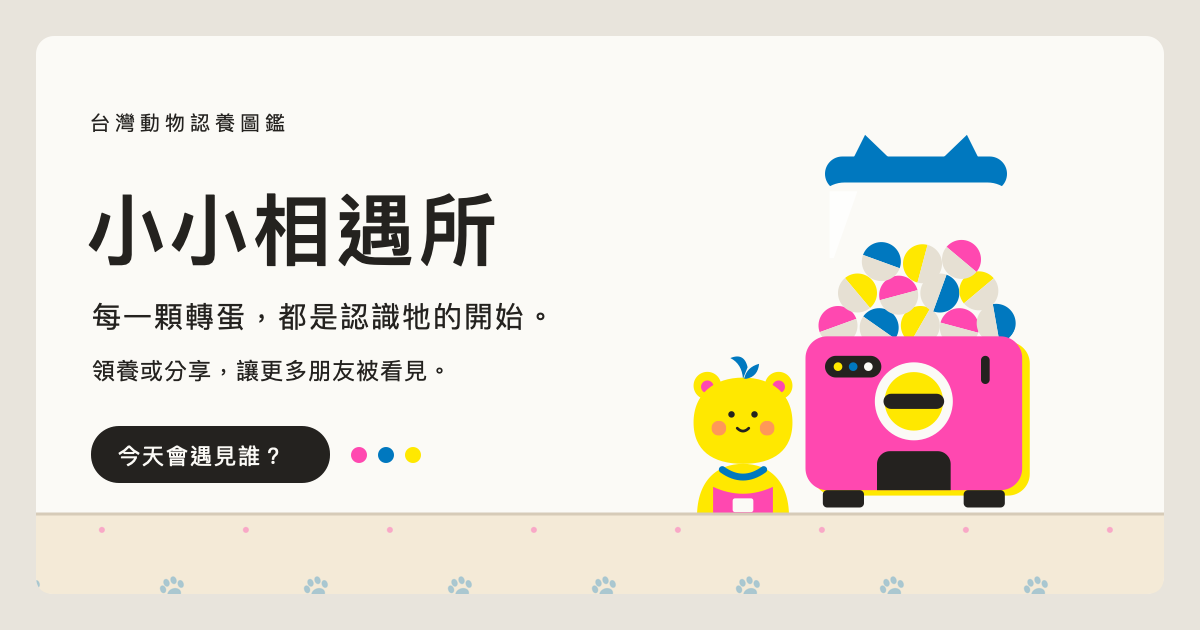
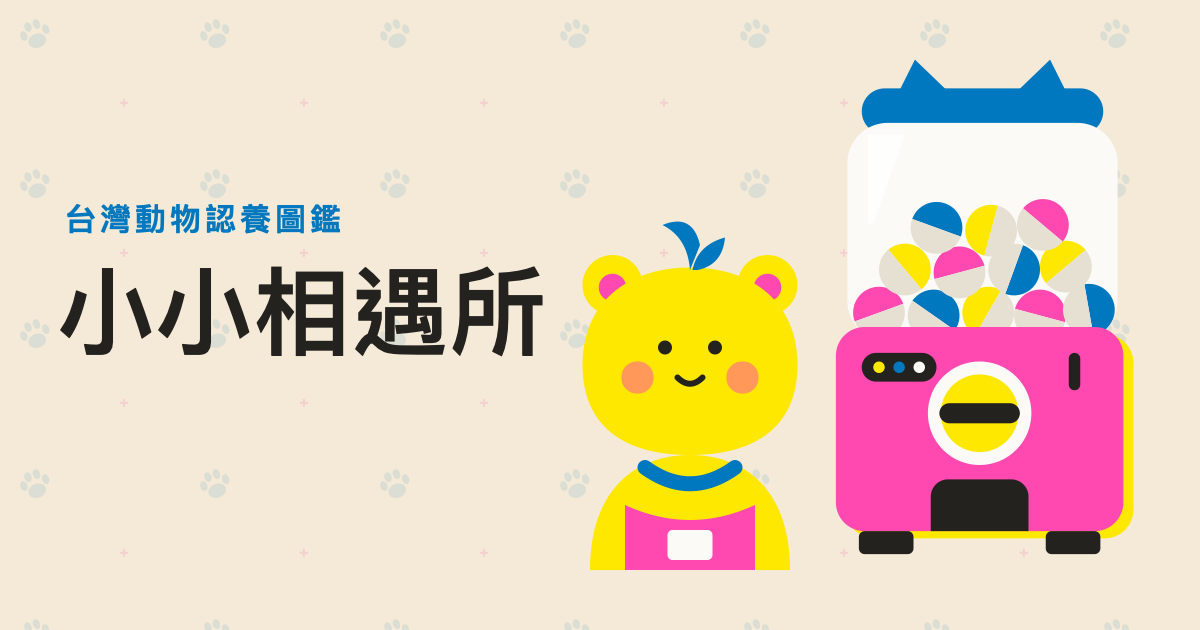
design(adopt-strays): simplify social preview and enlarge illustrations

diff --git a/adopt-strays/index.html b/adopt-strays/index.html
@@ -12,15 +12,15 @@
 <link rel="canonical" href="https://yuuyuutube.github.io/tools/adopt-strays/">
 <meta property="og:url" content="https://yuuyuutube.github.io/tools/adopt-strays/">
 <meta property="og:site_name" content="小小相遇所">
-<meta property="og:image" content="https://yuuyuutube.github.io/tools/adopt-strays/og.png?v=3">
+<meta property="og:image" content="https://yuuyuutube.github.io/tools/adopt-strays/og.png?v=9">
 <meta property="og:image:width" content="1200">
 <meta property="og:image:height" content="630">
 <meta property="og:image:type" content="image/png">
-<meta property="og:image:alt" content="小小相遇所：店員阿糰與三色轉蛋機，領養或分享，讓更多朋友被看見。">
+<meta property="og:image:alt" content="台灣動物認養圖鑑・小小相遇所：腳印桌巾背景上的阿糰與三色轉蛋機。">
 <meta name="twitter:card" content="summary_large_image">
 <meta name="twitter:title" content="小小相遇所｜台灣動物認養圖鑑">
 <meta name="twitter:description" content="每一顆轉蛋，都是認識牠的開始。領養或分享，讓更多朋友被看見。">
-<meta name="twitter:image" content="https://yuuyuutube.github.io/tools/adopt-strays/og.png?v=3">
+<meta name="twitter:image" content="https://yuuyuutube.github.io/tools/adopt-strays/og.png?v=9">
 <meta property="og:type" content="website">
 <meta property="og:locale" content="zh_TW">
 <meta property="og:title" content="小小相遇所｜台灣動物認養圖鑑">
